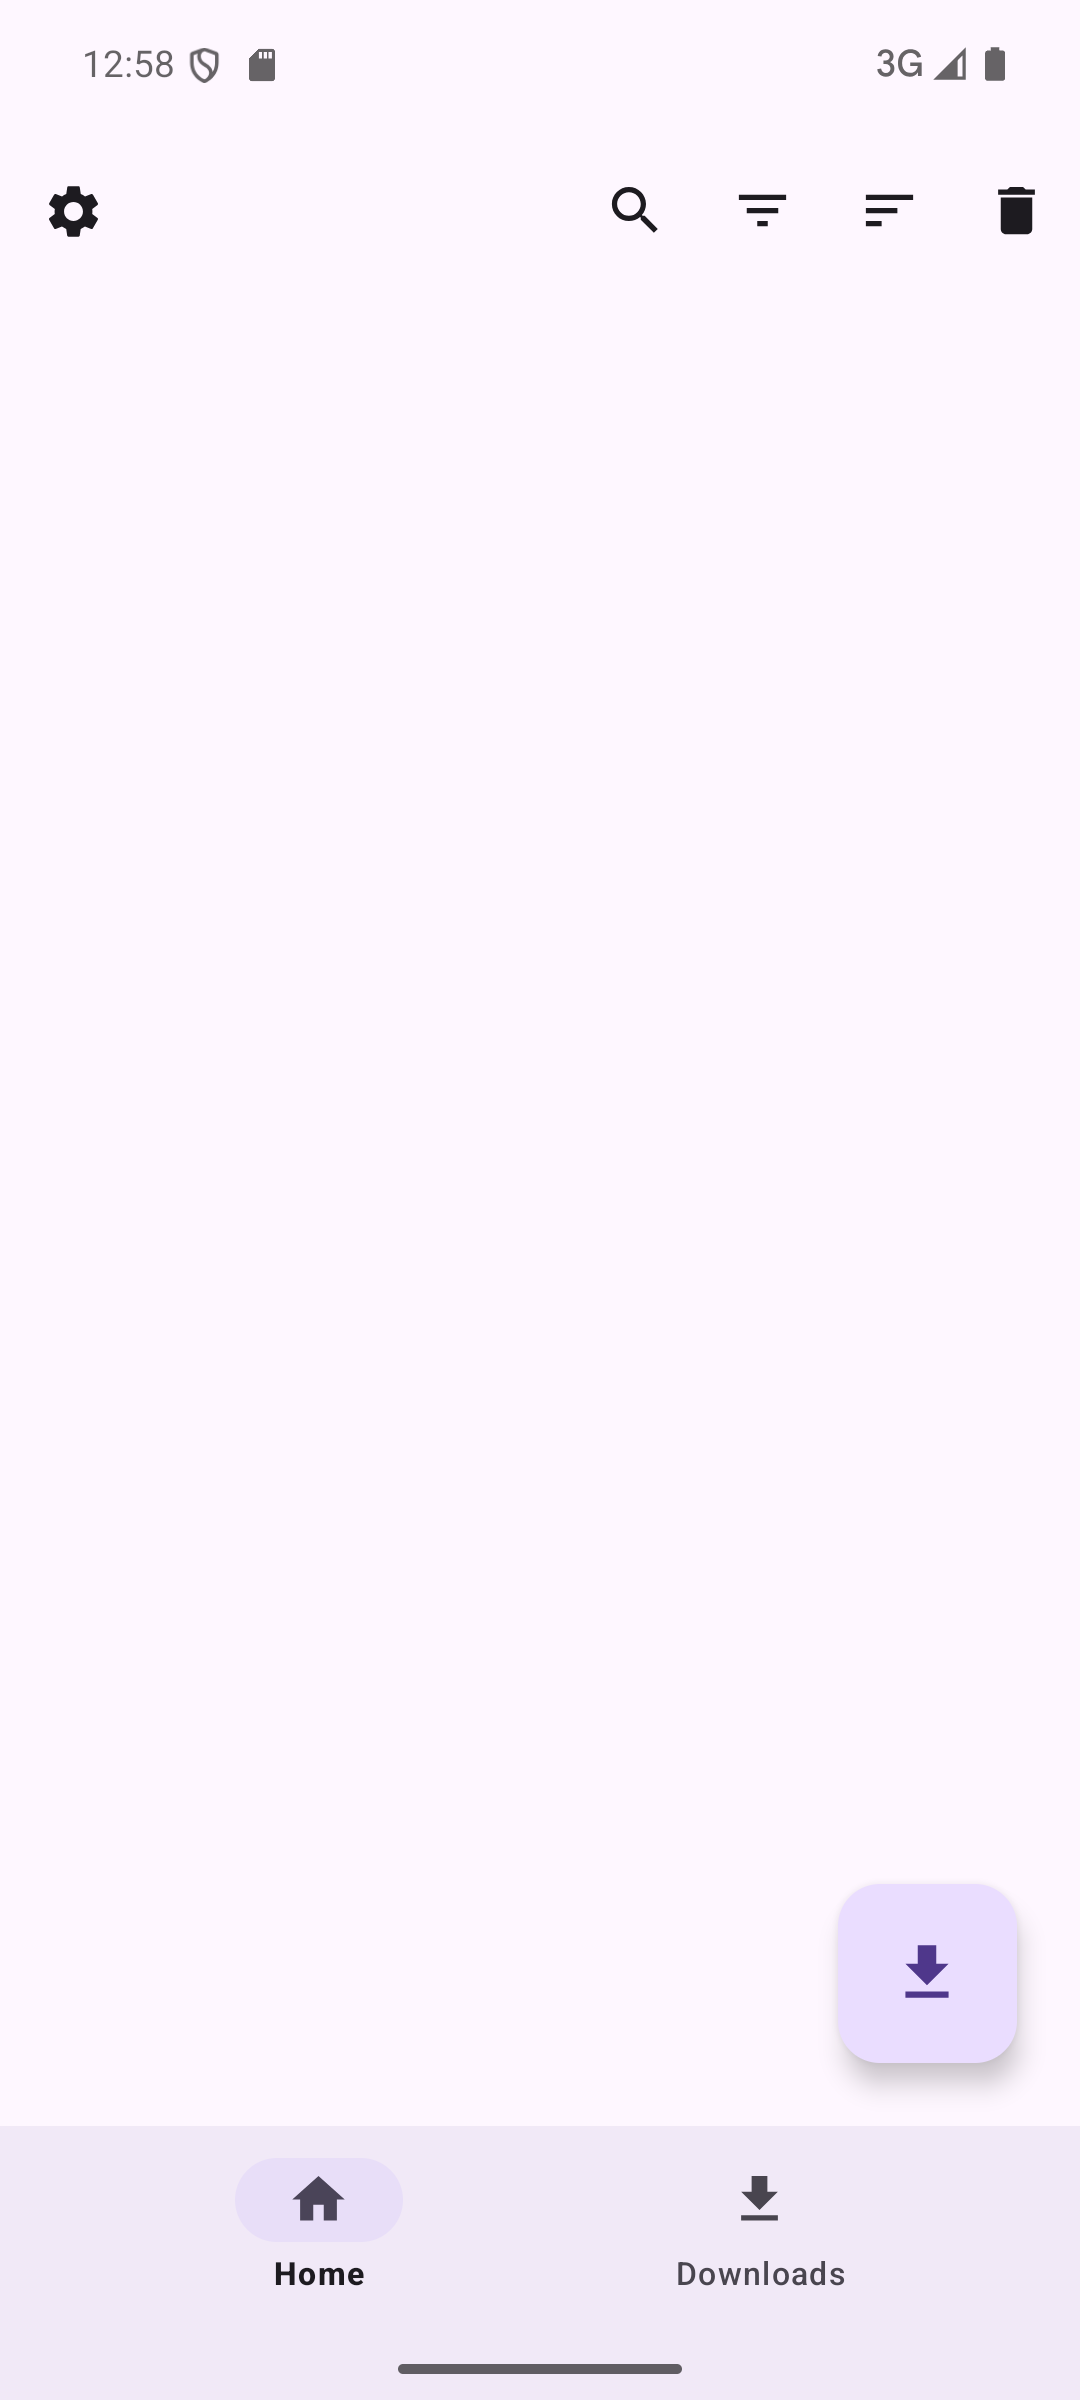
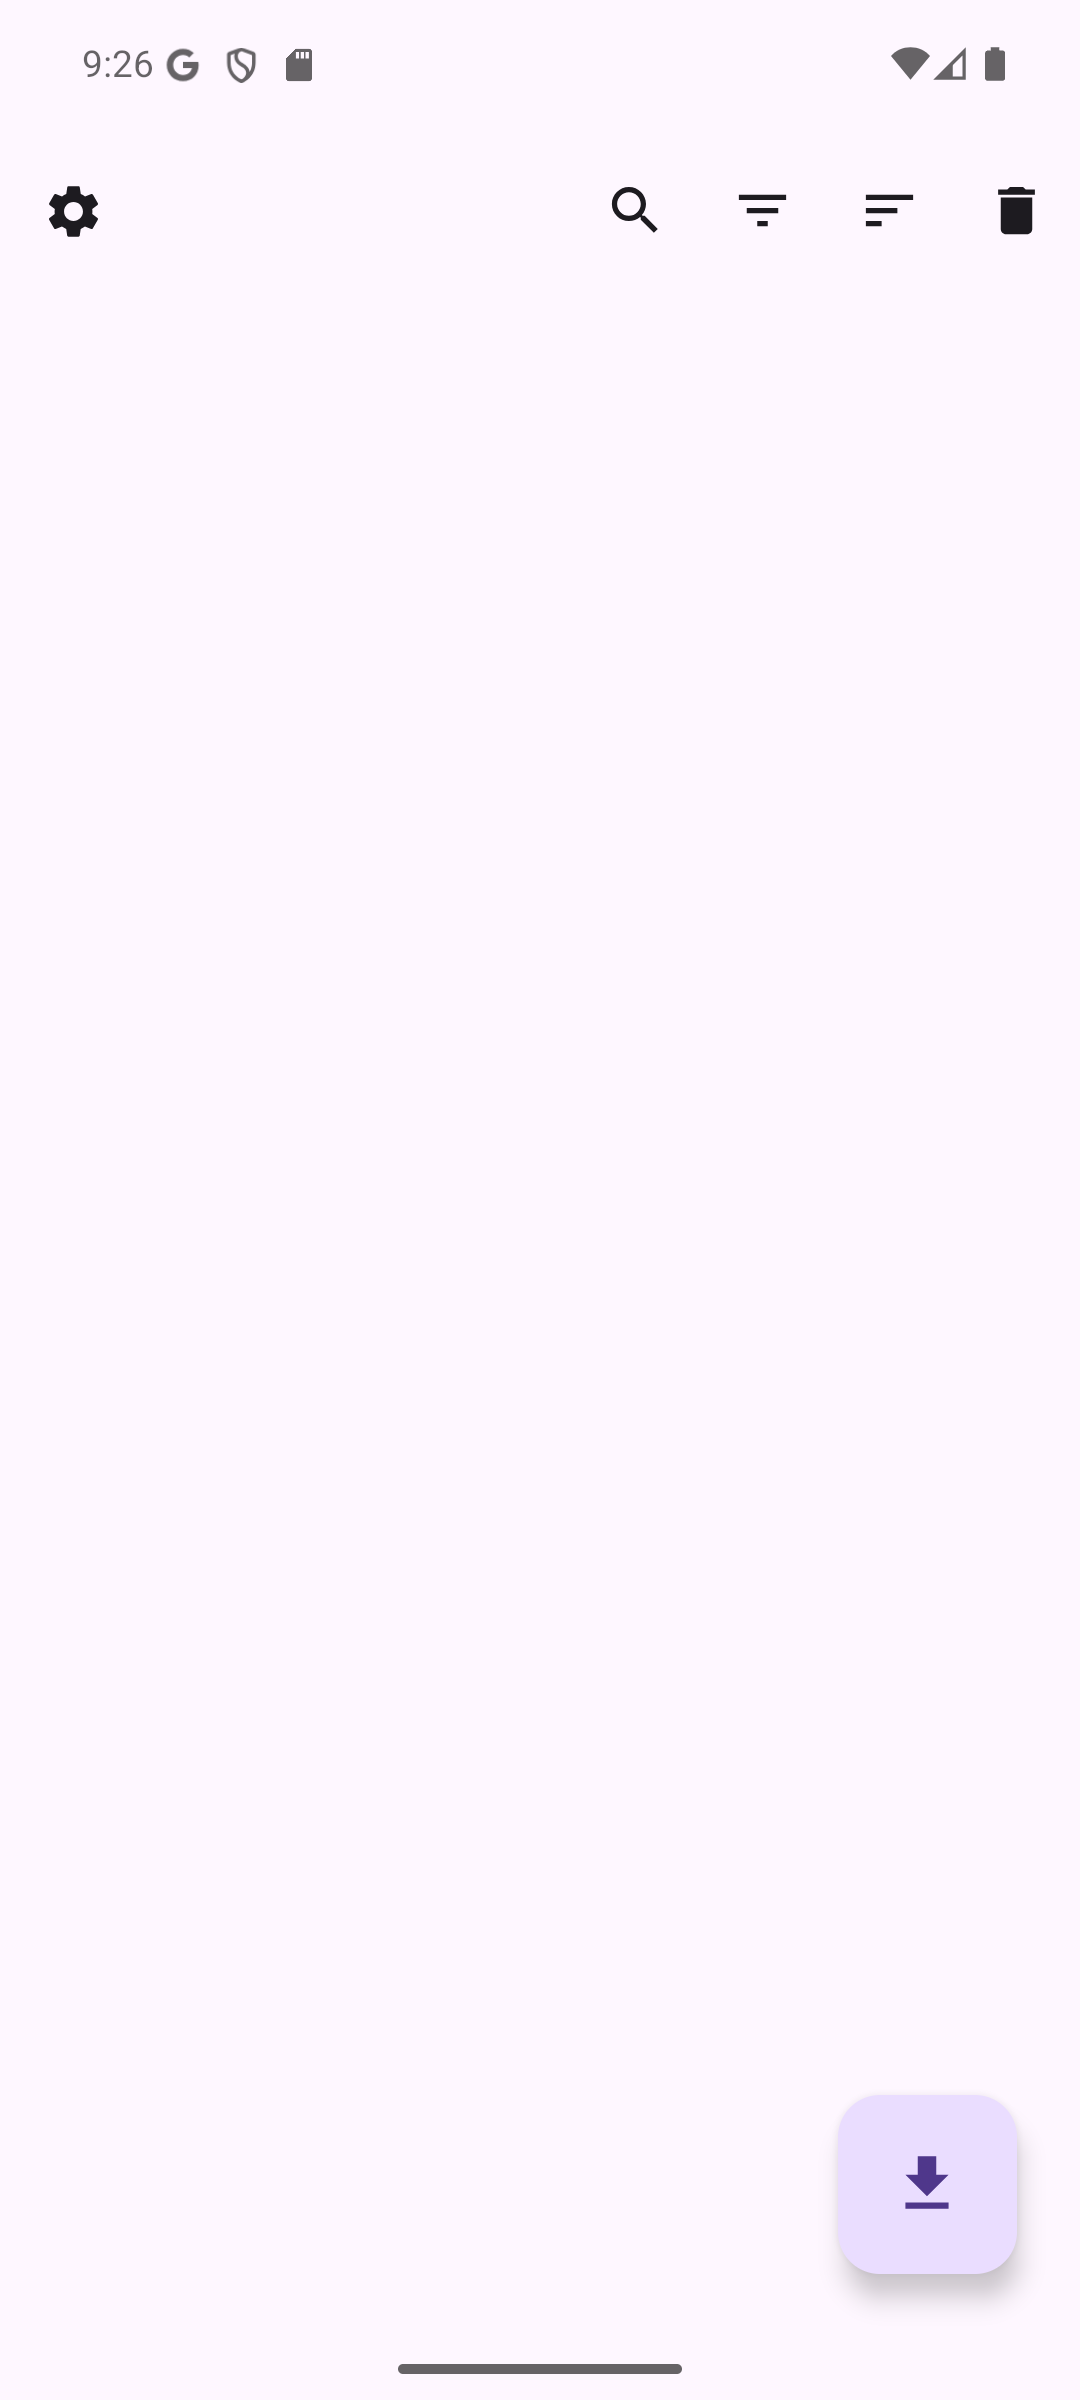
docs: refresh screenshots for v0.0.4 and update download link
- Retake app screenshots from v0.0.4 on an emulator
- Replace the removed downloads page shot with the Cookies page
- Point the download link to the v0.0.4 release

diff --git a/README.md b/README.md
@@ -8,15 +8,15 @@
 DYDownloader 是一个完全开源免费的抖音/TikTok 无水印原图/图集/动图/视频/账号/合集下载工具/安卓APP。
 
 ## 下载链接
-https://github.com/halcyra/DYDownloader/releases/tag/v0.0.3
+https://github.com/halcyra/DYDownloader/releases/tag/v0.0.4
 
 ## 界面预览
 
 <p align="center">
   <img src="assets/screenshot-home.png" width="24%" alt="首页">
-  <img src="assets/screenshot-downloads.png" width="24%" alt="下载队列">
   <img src="assets/screenshot-settings.png" width="24%" alt="设置">
   <img src="assets/screenshot-file-naming.png" width="24%" alt="文件命名规则">
+  <img src="assets/screenshot-cookies.png" width="24%" alt="Cookies 设置">
 </p>
 
 ## 主要功能

diff --git a/README.en.md b/README.en.md
@@ -12,9 +12,9 @@ DYDownloader is a fully open-source and free Android app for downloading waterma
 
 <p align="center">
   <img src="assets/screenshot-home.png" width="24%" alt="Home">
-  <img src="assets/screenshot-downloads.png" width="24%" alt="Download queue">
   <img src="assets/screenshot-settings.png" width="24%" alt="Settings">
   <img src="assets/screenshot-file-naming.png" width="24%" alt="File naming rule">
+  <img src="assets/screenshot-cookies.png" width="24%" alt="Cookies">
 </p>
 
 ## Features
